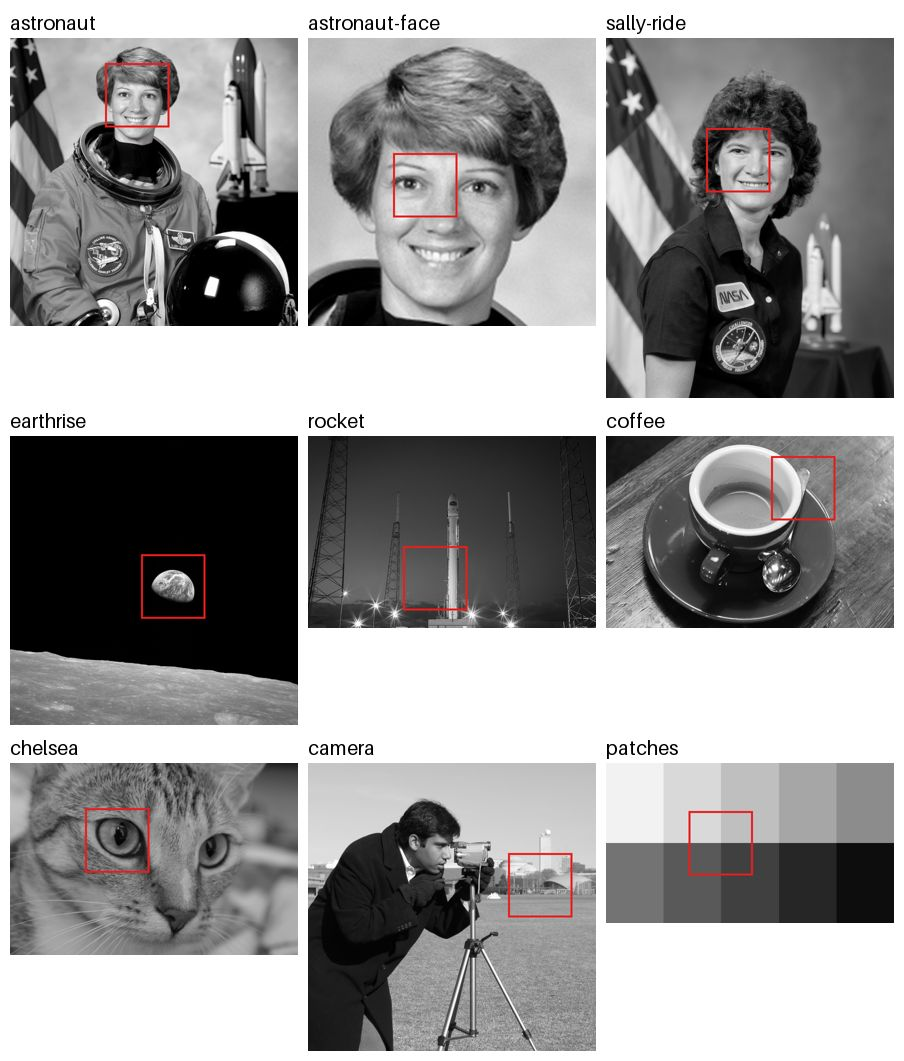
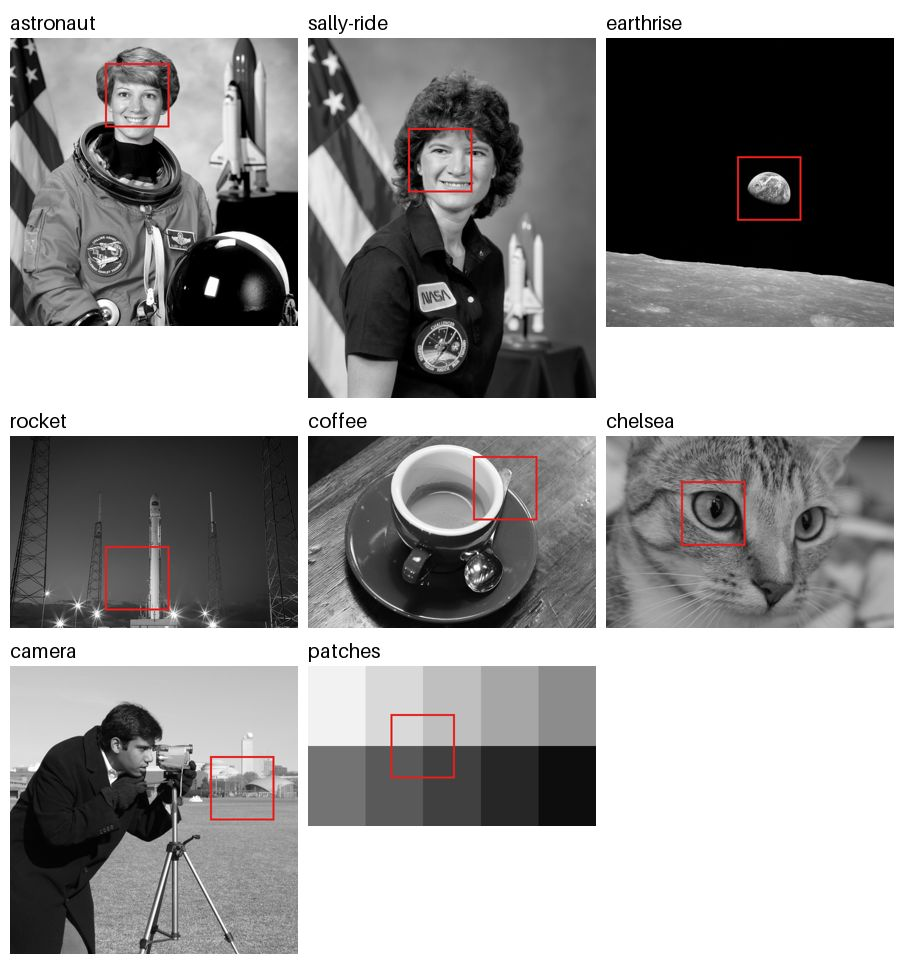
Drop the astronaut face-crop sample
The astronaut sample already uses the whole photo; only the displayed crops
are of the face. Back to eight samples.

diff --git a/experiments/benchmark.py b/experiments/benchmark.py
@@ -48,8 +48,6 @@ COMMONS = "https://upload.wikimedia.org/wikipedia/commons/"
 SAMPLES = {
     "astronaut": (ROOT / "docs/sample/astronaut.png", None,
                   "portrait, detailed background", "NASA, public domain (via scikit-image)"),
-    "astronaut-face": (ROOT / "docs/sample/astronaut.png", None,
-                       "face crop, upscaled 3.2x (smooth)", "NASA, public domain (via scikit-image)"),
     "sally-ride": (COMMONS + "0/0c/Sally_Ride_%281984%29.jpg",
[1 lines of base64/hex data omitted]
                    "portrait, smooth backdrop", "NASA, public domain (Wikimedia Commons)"),
@@ -72,9 +70,9 @@ SAMPLES = {
                 "ten uniform grey patches", "synthetic (experiments/make_test_chart.py)"),
 }
 # Crops of a source image, in source pixels (left, top, right, bottom).
-CROPS = {"astronaut-face": (140, 10, 320, 190)}
+CROPS = {}
 # Gallery crop per sample, in 576-dot coordinates (left, top); all crops are DETAIL_SIZE square.
-DETAIL = {"astronaut": (190, 50), "astronaut-face": (170, 230), "sally-ride": (200, 180),
+DETAIL = {"astronaut": (190, 50), "sally-ride": (200, 180),
           "earthrise": (262, 236), "rocket": (190, 220), "coffee": (330, 40), "chelsea": (150, 90),
           "camera": (400, 180), "patches": (165, 96)}
 DETAIL_SIZE = 128

diff --git a/docs/dither-comparison.md b/docs/dither-comparison.md
@@ -144,12 +144,11 @@ Random grain (FFT mask) mostly stays blank.
 
 #### Across more samples
 
-`experiments/benchmark.py` repeats the evaluation on nine images. Two of them, the NASA sample and the patch chart, are stored here. A face crop of the NASA sample is cut from the stored file. The other six are downloaded on demand, pinned by SHA-256, and not stored in this repository.
+`experiments/benchmark.py` repeats the evaluation on eight images. Two of them, the NASA sample and the patch chart, are stored here. The other six are downloaded on demand, pinned by SHA-256, and not stored in this repository.
 
 | Sample | Content | Source and licence |
 | --- | --- | --- |
 | astronaut | portrait, detailed background | NASA, public domain |
-| astronaut-face | face crop of the same photo, upscaled 3.2×, so smooth and soft | NASA, public domain |
 | sally-ride | portrait, smooth backdrop | NASA, public domain ([Commons](https://commons.wikimedia.org/wiki/File:Sally_Ride_(1984).jpg)) |
 | earthrise | dark scene, large black area | NASA / Bill Anders, public domain ([Commons](https://commons.wikimedia.org/wiki/File:NASA_Earthrise_AS08-14-2383_Apollo_8_1968-12-24.jpg)) |
 | rocket | dark sky gradient | SpaceX, public domain (scikit-image) |
@@ -164,11 +163,10 @@ Each sheet shows one 128×128-dot crop: the unadjusted original on top, then eve
 
 ![Sample overview with crop positions](images/gallery/overview.jpg)
 
-| | | |
-| --- | --- | --- |
-| [astronaut](images/gallery/astronaut.jpg) | [astronaut-face](images/gallery/astronaut-face.jpg) | [sally-ride](images/gallery/sally-ride.jpg) |
-| [earthrise](images/gallery/earthrise.jpg) | [rocket](images/gallery/rocket.jpg) | [coffee](images/gallery/coffee.jpg) |
-| [chelsea](images/gallery/chelsea.jpg) | [camera](images/gallery/camera.jpg) | [patches](images/gallery/patches.jpg) |
+| | | | |
+| --- | --- | --- | --- |
+| [astronaut](images/gallery/astronaut.jpg) | [sally-ride](images/gallery/sally-ride.jpg) | [earthrise](images/gallery/earthrise.jpg) | [rocket](images/gallery/rocket.jpg) |
+| [coffee](images/gallery/coffee.jpg) | [chelsea](images/gallery/chelsea.jpg) | [camera](images/gallery/camera.jpg) | [patches](images/gallery/patches.jpg) |
 
 The dark sky of the rocket sample shows the artifacts most clearly:
 
@@ -181,29 +179,29 @@ The dark sky of the rocket sample shows the artifacts most clearly:
 
 ##### Numbers
 
-All numbers are in [benchmark.csv](benchmark.csv). Zhou–Fang uses random noise, so its numbers change slightly between runs (in the second decimal place). Mean over the nine samples, heat model, radius 0.55 / 0.65:
+All numbers are in [benchmark.csv](benchmark.csv). Zhou–Fang uses random noise, so its numbers change slightly between runs (in the second decimal place). Mean over the eight samples, heat model, radius 0.55 / 0.65:
 
 | Method | bias | tone | texture | directional | periodic |
 | --- | --- | --- | --- | --- | --- |
-| Floyd–Steinberg | +10.1 / −5.0 | 2.7 / 5.5 | 3.9 / 5.7 | 0.25 / 0.33 | 0.056 / 0.130 |
-| Serpentine FS | +10.0 / −5.2 | 2.7 / 5.5 | 4.1 / 5.9 | 0.21 / 0.33 | 0.051 / 0.114 |
-| JJN | +12.2 / −0.3 | 3.9 / 2.7 | 5.4 / 6.1 | 0.27 / 0.26 | 0.060 / 0.061 |
-| Atkinson | +11.4 / +0.6 | 4.2 / 5.6 | 4.5 / 5.2 | 0.31 / 0.30 | 0.112 / 0.112 |
-| Bayer 8×8 | +8.3 / −8.7 | 2.4 / 8.4 | 4.7 / 7.3 | 0.06 / 0.18 | 0.356 / 0.279 |
-| FFT mask | +12.2 / +0.7 | 4.1 / 1.8 | 9.6 / 10.9 | 0.19 / 0.21 | 0.055 / 0.053 |
-| Ostromoukhov | +11.2 / −3.1 | 3.5 / 3.7 | 4.7 / 5.8 | 0.28 / 0.35 | 0.049 / 0.078 |
-| Zhou–Fang | +10.8 / −3.6 | 3.5 / 3.3 | 4.9 / 5.7 | 0.17 / 0.20 | 0.048 / 0.072 |
+| Floyd–Steinberg | +10.0 / −5.6 | 2.6 / 5.4 | 4.0 / 5.6 | 0.26 / 0.33 | 0.048 / 0.140 |
+| Serpentine FS | +9.9 / −5.8 | 2.6 / 5.5 | 4.2 / 5.8 | 0.21 / 0.33 | 0.044 / 0.122 |
+| JJN | +12.2 / −0.6 | 3.7 / 2.7 | 5.4 / 6.1 | 0.27 / 0.26 | 0.056 / 0.065 |
+| Atkinson | +11.1 / −0.1 | 4.3 / 5.5 | 4.5 / 5.2 | 0.31 / 0.29 | 0.110 / 0.122 |
+| Bayer 8×8 | +8.2 / −9.3 | 2.4 / 8.3 | 4.8 / 7.2 | 0.05 / 0.18 | 0.380 / 0.298 |
+| FFT mask | +12.2 / +0.4 | 3.9 / 1.8 | 9.7 / 10.9 | 0.19 / 0.21 | 0.056 / 0.054 |
+| Ostromoukhov | +11.2 / −3.5 | 3.3 / 3.7 | 4.8 / 5.8 | 0.27 / 0.34 | 0.045 / 0.084 |
+| Zhou–Fang | +10.8 / −3.9 | 3.3 / 3.3 | 4.9 / 5.7 | 0.17 / 0.20 | 0.043 / 0.078 |
 
-How consistent the rankings are across the nine images:
+How consistent the rankings are across the eight images:
 
-- **The best method depends on the radius.** At 0.55, Floyd–Steinberg or serpentine FS has the lowest tone error among the error-diffusion methods on eight of nine images; on the rocket, Zhou–Fang does. At 0.65, the order reverses: JJN and Zhou–Fang have lower tone error than Floyd–Steinberg on all nine images, and FS prints darker than the original on all nine. The model cannot pick a winner until the radius is measured on paper.
-- **At 0.65, JJN is the most tone-neutral error-diffusion method.** Its bias stays within −4.6 to +2.2 L\*. Floyd–Steinberg ranges from −13.0 to −0.6.
-- **Zhou–Fang is the least directional error-diffusion method** on all nine images at 0.65 and on seven of nine at 0.55.
-- **Ostromoukhov** has the highest mean directional score at 0.65 and is the most directional method on five of the nine images.
+- **The best method depends on the radius.** At 0.55, Floyd–Steinberg or serpentine FS has the lowest tone error among the error-diffusion methods on seven of eight images; on the rocket, Zhou–Fang does. At 0.65, the order reverses: JJN and Zhou–Fang have lower tone error than Floyd–Steinberg on all eight images, and FS prints darker than the original on all eight. The model cannot pick a winner until the radius is measured on paper.
+- **At 0.65, JJN is the most tone-neutral error-diffusion method.** Its bias stays within −4.6 to +1.8 L\*. Floyd–Steinberg ranges from −13.0 to −1.0.
+- **Zhou–Fang is the least directional error-diffusion method** on all eight images at 0.65 and on six of eight at 0.55.
+- **Ostromoukhov** has the highest mean directional score at 0.65 and is the most directional method on four of the eight images.
 - **FFT mask** has the lowest tone error and the highest texture on every image at 0.65: coarse grain that averages out.
-- **Bayer** has the highest periodic score on all nine images at 0.55 and on eight at 0.65. It is the least directional at 0.55, because a grid has no single direction.
+- **Bayer** has the highest periodic score on all eight images at 0.55 and on seven at 0.65. It is the least directional at 0.55, because a grid has no single direction.
 
-Limits: nine images, uncalibrated parameters, and an approximate vision model. S-CIELAB is a standard model, but the directional and periodic measures are this project's own heuristics. They are checked against synthetic stripes and noise (`tests/test_evaluate.py`) and by eye against the maps, not against viewer ratings.
+Limits: eight images, uncalibrated parameters, and an approximate vision model. S-CIELAB is a standard model, but the directional and periodic measures are this project's own heuristics. They are checked against synthetic stripes and noise (`tests/test_evaluate.py`) and by eye against the maps, not against viewer ratings.
 
 ## Reproduce
 
@@ -218,7 +216,7 @@ python experiments/evaluate_dither.py docs/sample/patches.png \
   $D/floyd.png $D/serpentine.png $D/jjn.png $D/atkinson.png $D/bayer.png $D/blue.png \
   --radii 0.55 0.65 --artifacts $D/artifacts.png      # add --model overlap for the other model
 
-# All nine samples, including Ostromoukhov and Zhou-Fang (about 3 minutes):
+# All eight samples, including Ostromoukhov and Zhou-Fang (about 3 minutes):
 git clone --depth 1 https://github.com/dalpil/structure-aware-dithering /tmp/sad
 python experiments/benchmark.py --external /tmp/sad --csv docs/benchmark.csv \
   --gallery docs/images/gallery \

diff --git a/README.md b/README.md
@@ -49,7 +49,7 @@ On the tested portrait and paper, **Jarvis–Judice–Ninke (JJN)** with density
 
 See [XP-80T experiment log](docs/experiments-xp80t.md) for the device parameters, density commands, settings, alternatives tested and limitations.
 
-For an on-screen comparison of the methods, see the [dithering comparison](docs/dither-comparison.md). It uses a public-domain sample photo and shows previews, not printed results. It also scores simulated prints against the original (perceptual tone and texture error) and maps dithering artifacts such as worms, diagonal lines and grids. A gallery shows simulated prints of every method on nine public-domain or CC0 samples.
+For an on-screen comparison of the methods, see the [dithering comparison](docs/dither-comparison.md). It uses a public-domain sample photo and shows previews, not printed results. It also scores simulated prints against the original (perceptual tone and texture error) and maps dithering artifacts such as worms, diagonal lines and grids. A gallery shows simulated prints of every method on eight public-domain or CC0 samples.
 
 ![Enlarged crops of each dithering method](docs/images/astronaut/detail.png)
 
